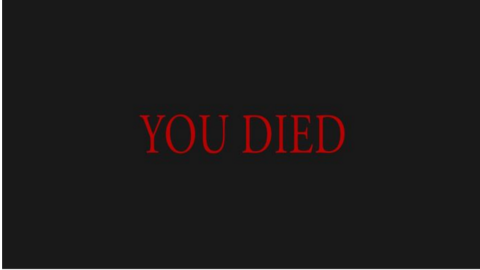
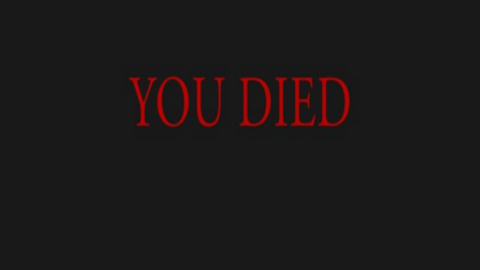
dead

Changed region(s): [[0.25, 0.2667, 0.75, 0.5926], [0.0, 0.0, 1.0, 1.0]]

diff --git a/src/update.c b/src/update.c
@@ -19,8 +19,8 @@ static void update_stat(my_game_t *game)
            (sfVector2i){game->player->stamina, 12}, sfGreen);
     square(game->win->framebuff, (sfVector2f){122, 202},
            (sfVector2i){game->player->mana, 12}, sfBlue);
-    square(game->win->framebuff, (sfVector2f){150, 225},
-           (sfVector2i){10, game->player->mana}, sfMagenta);
+    square(game->win->framebuff, (sfVector2f){148, 225},
+           (sfVector2i){12, game->player->exp}, sfMagenta);
     sfTexture_updateFromPixels(game->win->texture, game->win->framebuff->pixels,
                                WM, HM, 0, 0);
 }
@@ -47,6 +47,10 @@ void    update(my_game_t *game, play_t *play, png_t *png)
     sfRenderWindow_drawSprite(game->win->window, game->win->sprite, NULL);
     users_interaction(play, game);
     action_game(play, game);
+    if (game->player->exp >= 100) {
+        game->player->lvl++;
+        game->player->exp = 0;
+    }
     if (game->value_talk == 0)
         dialogue(&png[game->value_name], game->win->window, "", "");
     else

diff --git a/src/action_game.c b/src/action_game.c
@@ -23,8 +23,8 @@ static void drink(play_t *play, my_game_t *game)
 
 void action_game(play_t *play, my_game_t *game)
 {
-        (sfKeyboard_isKeyPressed(sfKeyNum2)) ? play->action = (size_t)2 : 0;
-        (sfKeyboard_isKeyPressed(sfKeyNum1)) ? play->action = (size_t)1 : 0;
-        (sfKeyboard_isKeyPressed(sfKeyNum5)) ? play->history = true : 0;
-        (sfKeyboard_isKeyPressed(sfKeyNum4)) ? drink(play, game): 0;
+    (sfKeyboard_isKeyPressed(sfKeyNum2)) ? play->action = (size_t)2 : 0;
+    (sfKeyboard_isKeyPressed(sfKeyNum1)) ? play->action = (size_t)1 : 0;
+    (sfKeyboard_isKeyPressed(sfKeyNum5)) ? play->history = true : 0;
+    (sfKeyboard_isKeyPressed(sfKeyNum4)) ? drink(play, game): 0;
 }

diff --git a/src/game.c b/src/game.c
@@ -37,6 +37,7 @@ void    ft_game(my_game_t *game, opt_t *opt)
     start_game(game);
     sfMusic_play(play.music);
     sfMusic_setLoop(play.music, sfTrue);
+    sfMusic_setVolume(play.music, opt->vol_ac);
     while (sfRenderWindow_isOpen(game->win->window)) {
         if (play.pause == false) {
             display_room(game);
@@ -47,7 +48,6 @@ void    ft_game(my_game_t *game, opt_t *opt)
                 enemy_turn(game);
             sfRenderWindow_display(game->win->window);
         }
-        if (play.pause == true)
-            pause_game(&play, game);
+        (play.pause == true) ? pause_game(&play, game) : 0;
     }
 }

diff --git a/src/check.c b/src/check.c
@@ -20,7 +20,7 @@ static void print_action(play_t *play, my_game_t *game)
         sfSprite_setTexture(play->s_punch, play->t_punch, sfTrue);
         sfRenderWindow_drawSprite(game->win->window, play->s_punch, NULL);
     }
-    if (play->action == 2 && game->player->mana > 0) {
+    if (play->action == 2 && game->player->mana > 0 && game->player->lvl > 1) {
         game->player->mana -= 5;
         (beat(game)) ? game->my_turn = 0 : 0;
         sfSound_play(play->magic);

diff --git a/src/beat.c b/src/beat.c
@@ -37,11 +37,12 @@ enemy_t *get_cible(my_game_t *game, int z, int x)
 int     beat_monster(my_game_t *game, enemy_t *cible)
 {
     cible->vie -= game->player->value_hit;
-    if (cible->vie < 0)
+    if (cible->vie <= 0) {
+        game->player->exp += 55;
         cible->vie = 0;
-    if (cible->vie <= 0)
         game->room[game->actual_room]->room[(int)cible->pos.y]
 [(int)cible->pos.z][(int)cible->pos.x] = '.';
+    }
     return (1);
 }
 

diff --git a/include/define.h b/include/define.h
@@ -27,6 +27,7 @@
 #define BAG_S "./music/bag.ogg"
 #define BURP "./music/Burp.ogg"
 
+#define DEAD "./img/interface/dead.png"
 #define CHATBOX "./img/interface/speakbox.png"
 #define HUD "./img/interface/HUB.png"
 

diff --git a/include/my.h b/include/my.h
@@ -120,5 +120,6 @@ play_t init_play(void);
 void action_game(play_t *play, my_game_t *game);
 png_t *init_png(void);
 void pause_game(play_t *play, my_game_t *game);
+void dead(my_game_t *game);
 
 #endif
